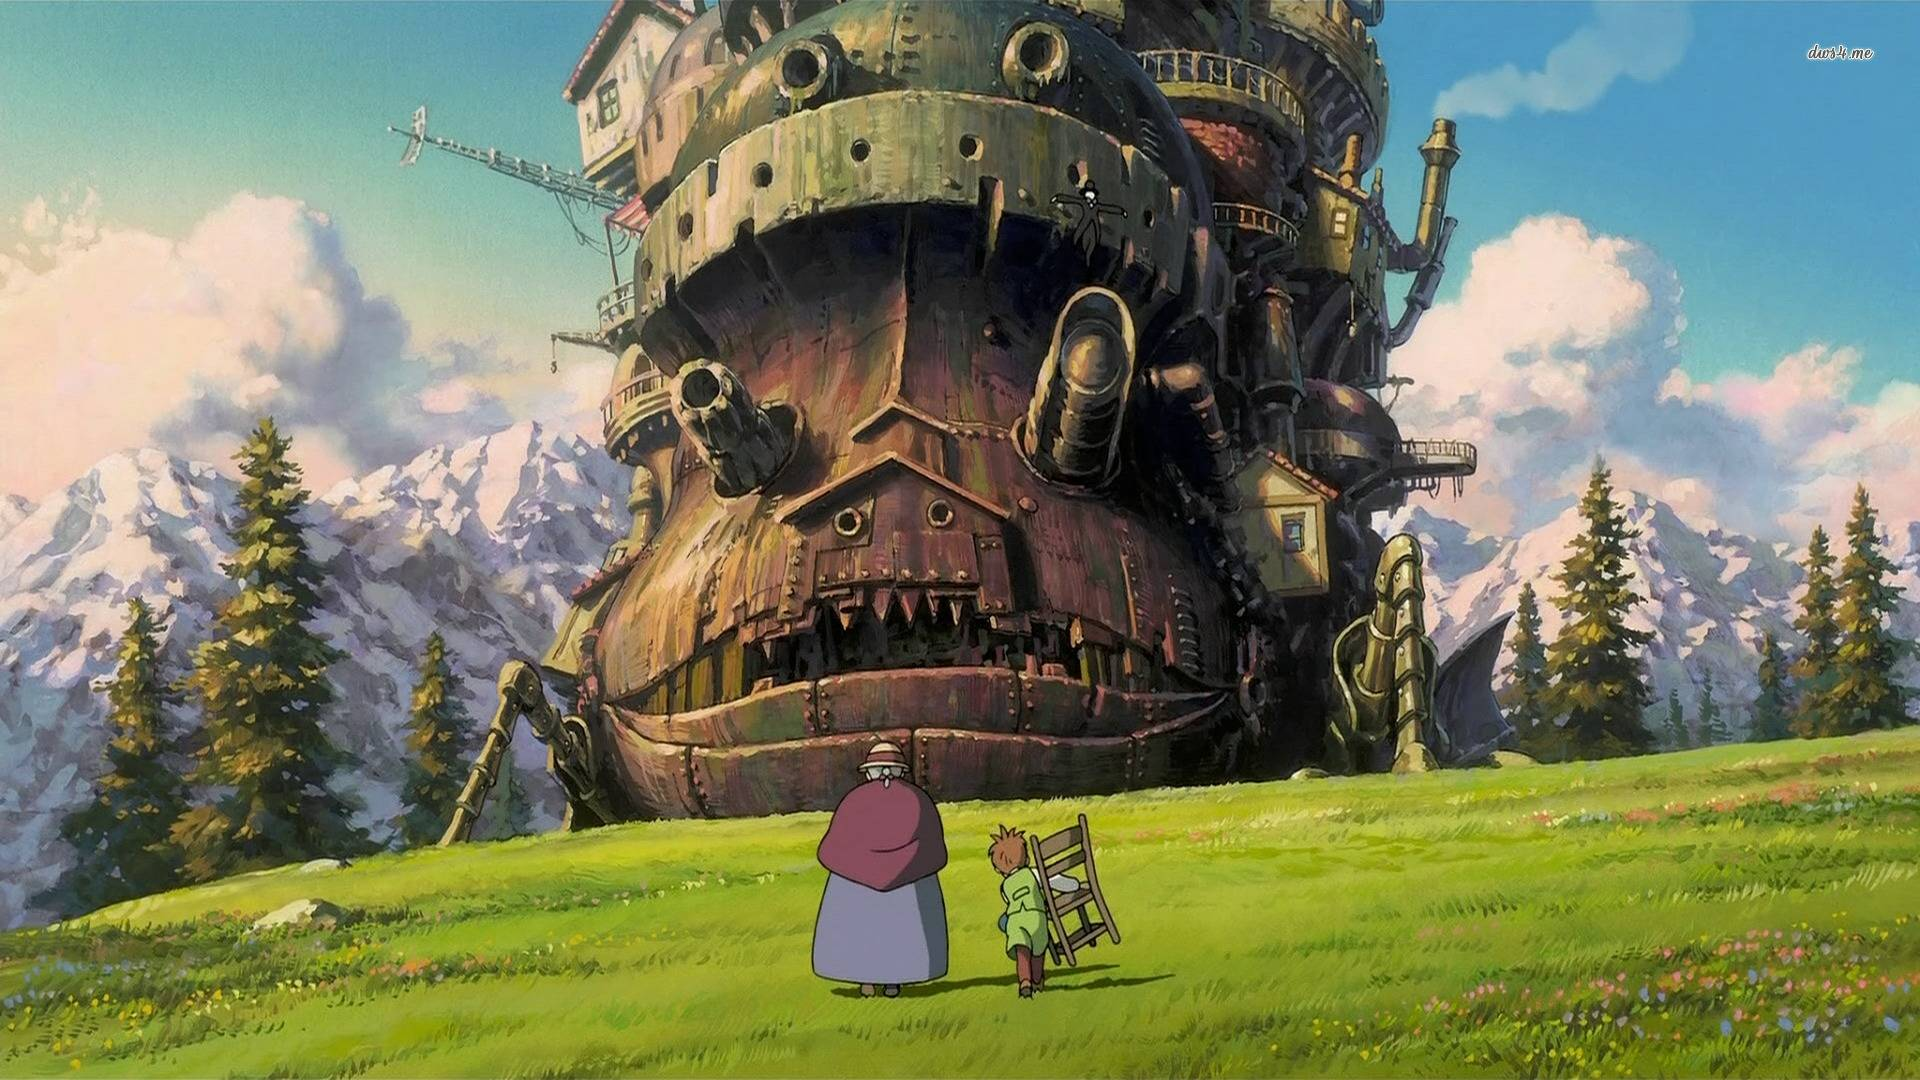
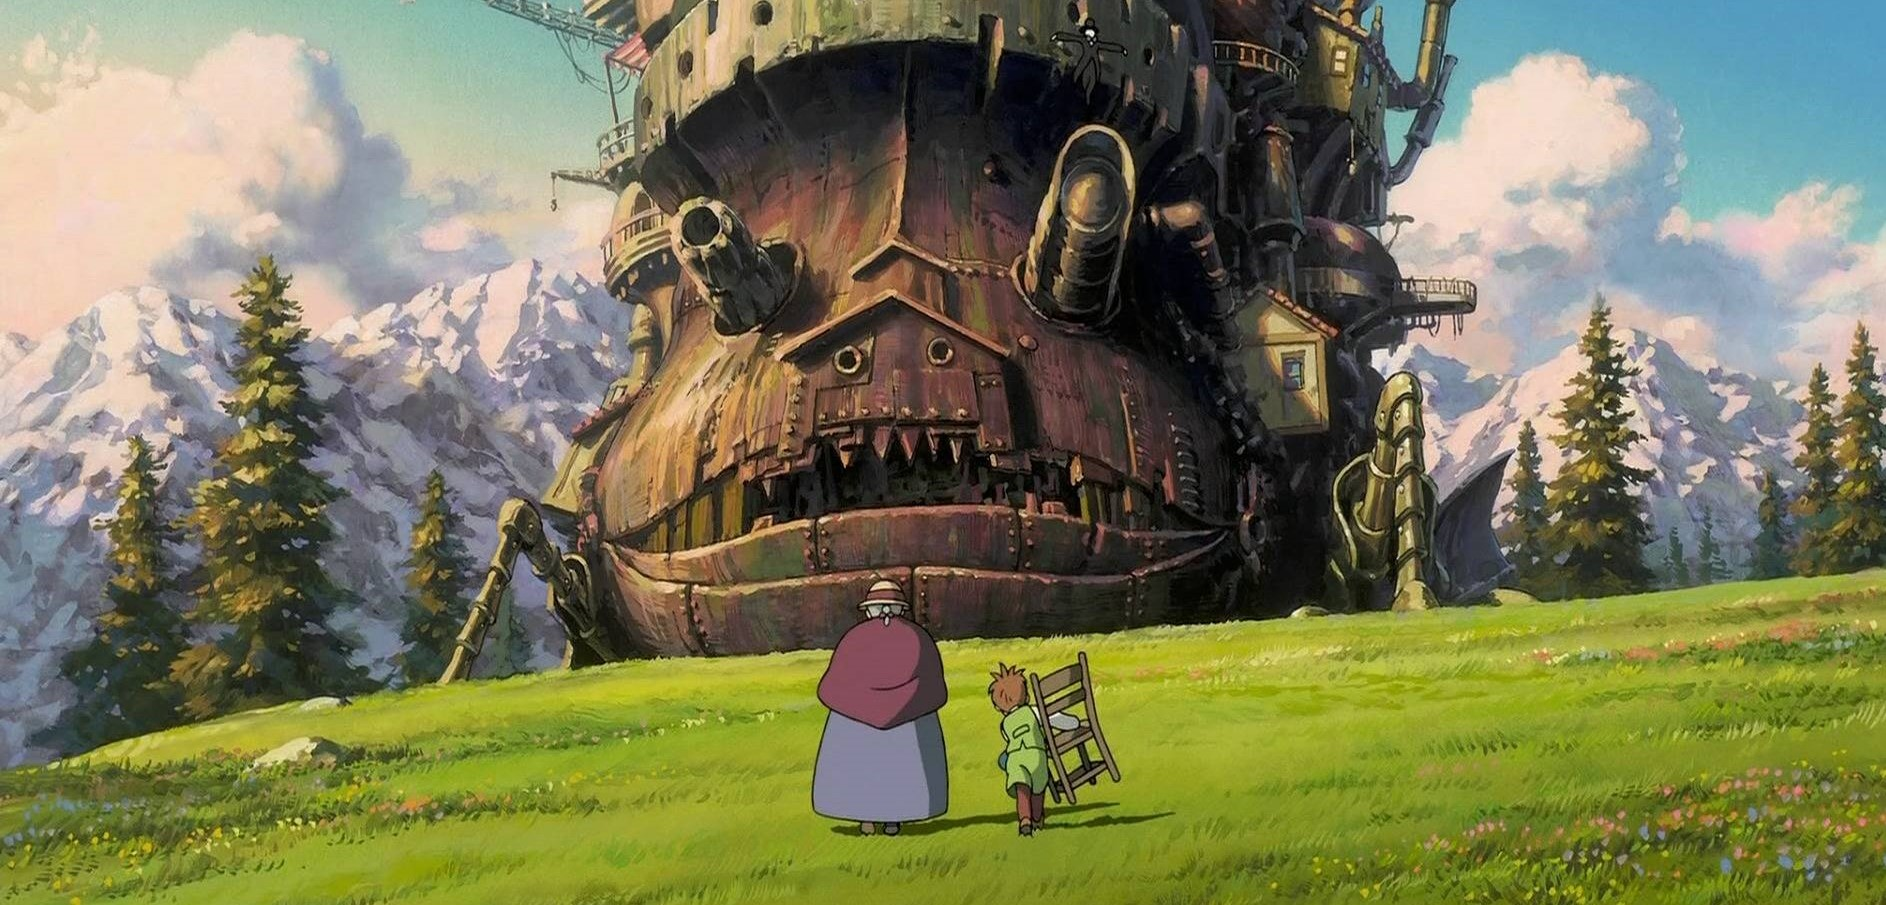
film section of landincg page is finished, i will begin with character section (html layout)

diff --git a/index.html b/index.html
@@ -30,7 +30,7 @@
         <section>
             <img src="./img/3948082.jpg" alt="Howl´s moving castle">
         </section>
-        <section>
+        <section class="movies">
             <aside>
                 <h3>Films</h3>
                 <span>映画</span>
@@ -38,13 +38,44 @@
             </aside>
             <section>
                 <div class="principal-movie">
-                    <img src="./img/bg2.jpg" alt="Howl´s moving castle">
+                    <img src="./img/bg22.jpg" alt="Howl´s moving castle">
                     <aside class="description">
                         <h2>Howl´s moving castle</h2>
                         <p>Lorem ipsum dolor sit amet consectetur adipisicing elit. Nemo nisi sit odit, tempora modi maiores, itaque vel libero praesentium recusandae autem quos magni et quam ea voluptatem. Molestias, magni enim!</p>
                     </aside>
                 </div>
-                <div class="movie-paging" id="movie-paging"></div>
+                <div class="movie-paging" id="movie-paging">
+                    <div>
+                        <img src="./img/43307da31b54cf82331c08e0bec97a2f.jpg" alt="castle in the sky">
+                        <h4>Castle in the Sky</h4>
+                        <span>天空の城ラピュタ</span>
+                    </div>
+                    <div>
+                        <img src="./img/43307da31b54cf82331c08e0bec97a2f.jpg" alt="castle in the sky">
+                        <h4>Castle in the Sky</h4>
+                        <span>天空の城ラピュタ</span>
+                    </div>
+                    <div>
+                        <img src="./img/43307da31b54cf82331c08e0bec97a2f.jpg" alt="castle in the sky">
+                        <h4>Castle in the Sky</h4>
+                        <span>天空の城ラピュタ</span>
+                    </div>
+                    <div>
+                        <img src="./img/43307da31b54cf82331c08e0bec97a2f.jpg" alt="castle in the sky">
+                        <h4>Castle in the Sky</h4>
+                        <span>天空の城ラピュタ</span>
+                    </div>
+                    <div>
+                        <img src="./img/43307da31b54cf82331c08e0bec97a2f.jpg" alt="castle in the sky">
+                        <h4>Castle in the Sky</h4>
+                        <span>天空の城ラピュタ</span>
+                    </div>
+                    <div>
+                        <img src="./img/43307da31b54cf82331c08e0bec97a2f.jpg" alt="castle in the sky">
+                        <h4>Castle in the Sky</h4>
+                        <span>天空の城ラピュタ</span>
+                    </div>
+                </div>
             </section>
         </section>
         <section>

diff --git a/style.scss b/style.scss
@@ -36,6 +36,10 @@ body{
     margin: 0;
     height: 100vh;
 }
+span{
+    font-size: 15px;
+    font-family: $typography-japanese-text;
+}
 header {
     nav{
         position: absolute;
@@ -51,8 +55,7 @@ header {
 }
 main {
     section{ 
-        @include display-flex-creator($direction: row, $justify-content: end, $align-items: start);
-        height: 100vh;
+        @include display-flex-creator($direction: row, $justify-content: center, $align-items: start);
         background-color: $hover-color;
         img{
             width: 100%;
@@ -60,9 +63,18 @@ main {
         aside{
             width: 10%;
         }
+    }
+}
+.movies{
+    padding: 40px;
+    aside{
+        @include display-flex-creator($direction: column, $justify-content: end, $align-items: start);       
+    }
+    section{
+        @include display-flex-creator($direction: column, $justify-content: start, $align-items: start);
         .principal-movie{
+            margin-bottom: 20px;
             position: relative;
-            width: 80%;
             @include display-flex-creator();
             img{
                 height: 100%;
@@ -76,6 +88,17 @@ main {
                 z-index: 2;
                 padding: 0 15px;
                 background-color: $secundary-color;
+                @include display-flex-creator($direction: column, $justify-content: start, $align-items: start);       
+
+            }
+        }
+        .movie-paging{
+            @include display-flex-creator($direction: row, $justify-content: space-between, $align-items: start);       
+            div{
+                width: 15%;
+                h4{
+                  margin: 0;  
+                } 
             }
         }
     }

diff --git a/style.css b/style.css
@@ -6,6 +6,11 @@ body {
   height: 100vh;
 }
 
+span {
+  font-size: 15px;
+  font-family: "Noto Sans JP", sans-serif;
+}
+
 header nav {
   position: absolute;
   top: 0;
@@ -33,9 +38,8 @@ header nav button {
 main section {
   display: flex;
   flex-direction: row;
-  justify-content: end;
+  justify-content: center;
   align-items: start;
-  height: 100vh;
   background-color: #BCCBD8;
 }
 main section img {
@@ -44,18 +48,34 @@ main section img {
 main section aside {
   width: 10%;
 }
-main section .principal-movie {
+
+.movies {
+  padding: 40px;
+}
+.movies aside {
+  display: flex;
+  flex-direction: column;
+  justify-content: end;
+  align-items: start;
+}
+.movies section {
+  display: flex;
+  flex-direction: column;
+  justify-content: start;
+  align-items: start;
+}
+.movies section .principal-movie {
+  margin-bottom: 20px;
   position: relative;
-  width: 80%;
   display: flex;
   flex-direction: row;
   justify-content: center;
   align-items: center;
 }
-main section .principal-movie img {
+.movies section .principal-movie img {
   height: 100%;
 }
-main section .principal-movie aside {
+.movies section .principal-movie aside {
   width: 30%;
   height: 100%;
   opacity: 75%;
@@ -64,6 +84,22 @@ main section .principal-movie aside {
   z-index: 2;
   padding: 0 15px;
   background-color: #8594A6;
+  display: flex;
+  flex-direction: column;
+  justify-content: start;
+  align-items: start;
+}
+.movies section .movie-paging {
+  display: flex;
+  flex-direction: row;
+  justify-content: space-between;
+  align-items: start;
+}
+.movies section .movie-paging div {
+  width: 15%;
+}
+.movies section .movie-paging div h4 {
+  margin: 0;
 }
 
 footer {
